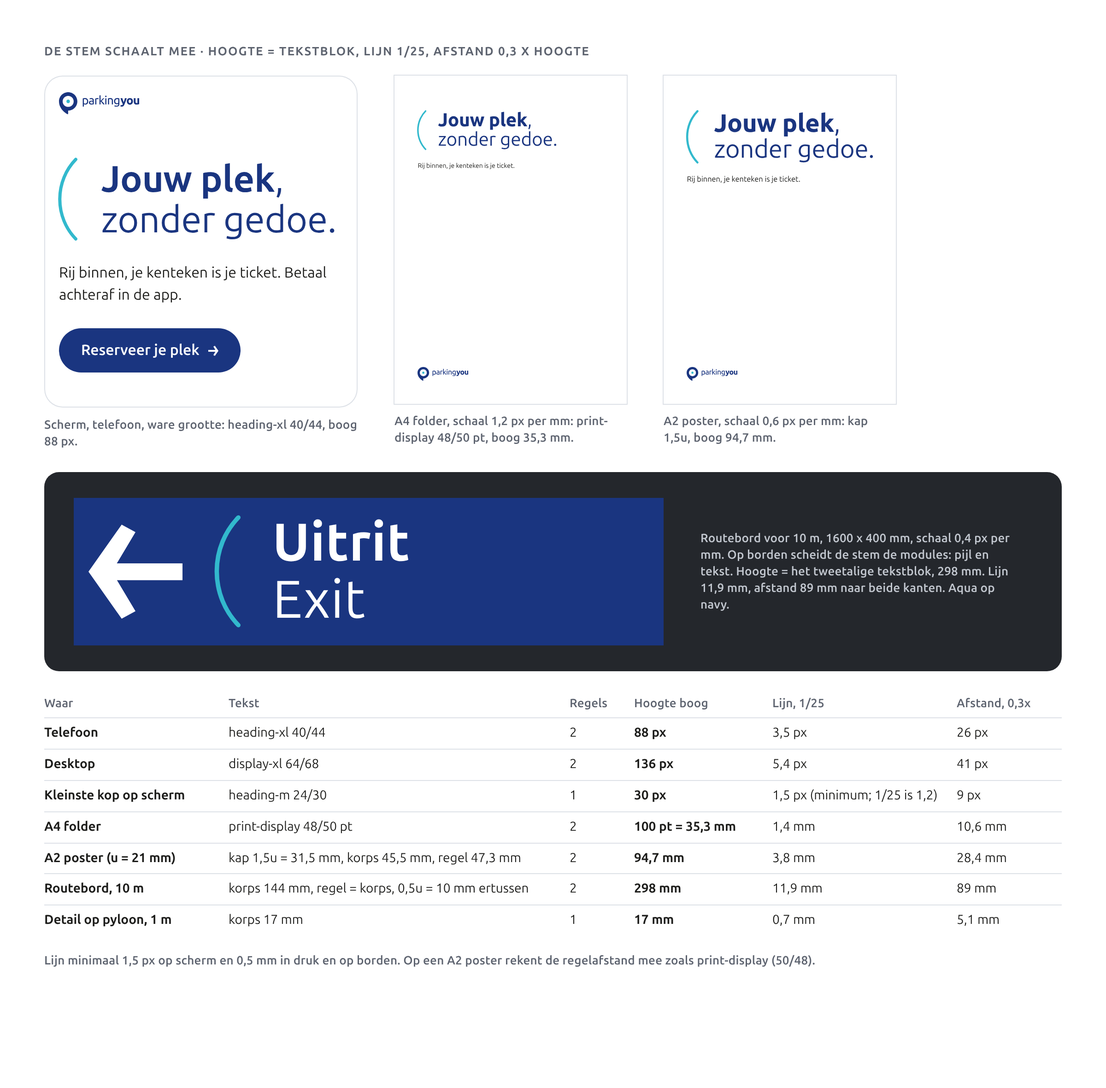
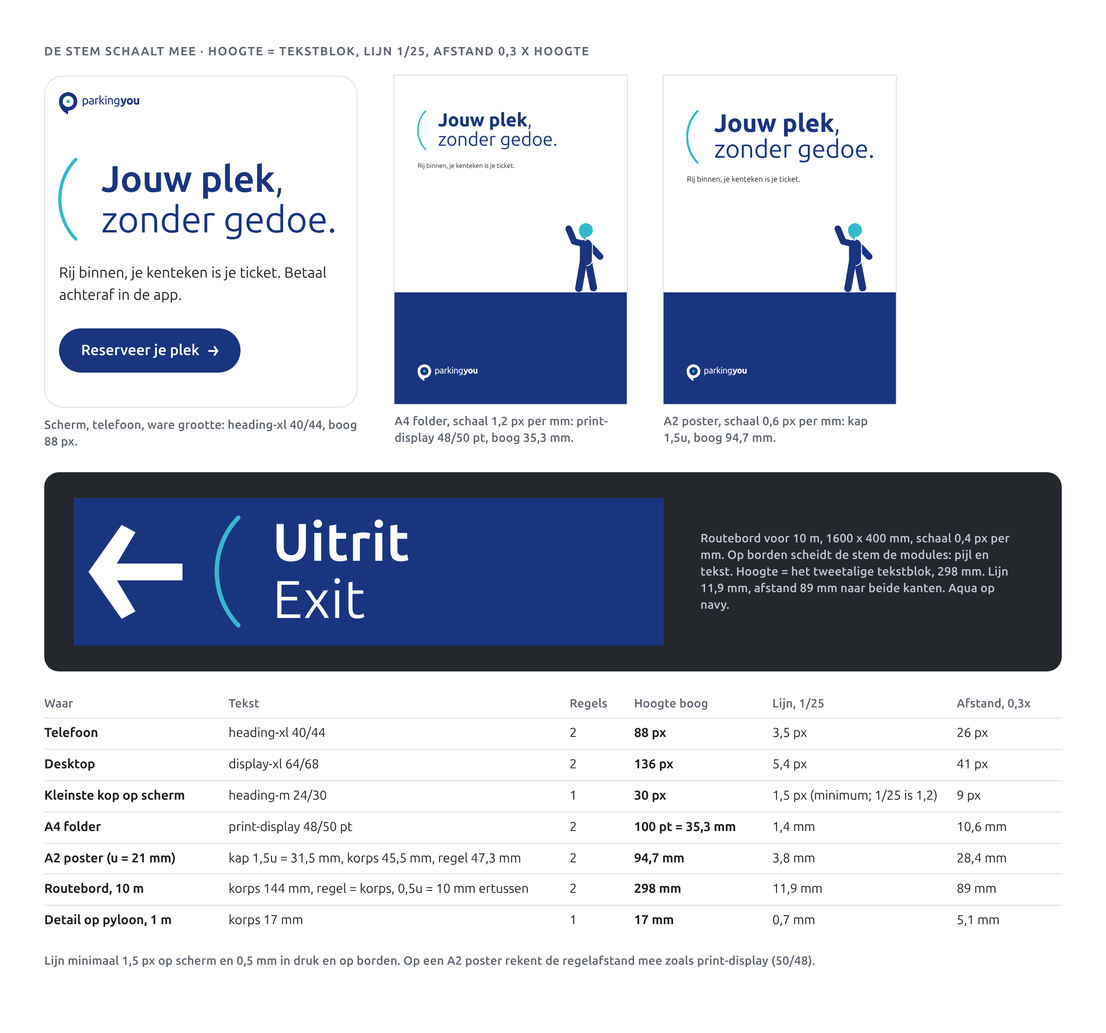
Brand refresh 2027 v2 (work in progress): rework in progress
Claude-Session: https://claude.ai/code/session_01A5zCZPhhdyTXntSMSAxsZz

diff --git a/brand-2027/02-build/07-beweging/figures/reduced-motion.html b/brand-2027/02-build/07-beweging/figures/reduced-motion.html
@@ -14,8 +14,8 @@ code { font: 600 12px/18px ui-monospace, Menlo, monospace; }
 </style>
 </head>
 <body>
-<div class="fig " style="width: 1200px; height: 710px;">
-<div class="abs eyebrow" style="left:48px;top:44px">Reduced motion · zelfde moment, geen beweging</div><div class="abs h" style="left:48px;top:84px">Standaard: pop, 600 ms</div><div class="abs h" style="left:660px;top:84px">prefers-reduced-motion: fade, duration.reduced 120 ms</div><div class="abs" style="left:48px;top:120px;width:120px;height:170px;background:#F4F6FB;border-radius:8px"></div><svg class="abs" viewBox="0 0 36 43.423" width="72.00" height="86.85" style="left:72.00px;top:160.00px;overflow:visible;opacity:0.000;" aria-hidden="true"><path d="M18 0C8.059 0 0 8.058 0 17.999C0 34.701 16.691 43.074 16.691 43.074C17.264 43.423 18 43.006 18 42.335L18 35.997C27.941 35.997 36 27.939 36 17.999C36 8.058 27.941 0 18 0Z" fill="#1A3580"/></svg><div class="abs tnum" style="left:72.00px;top:160.00px;width:72.00px;height:72.00px;display:flex;align-items:center;justify-content:center;color:#FFFFFF;opacity:0.000;font-weight:800;font-size:28.8px;line-height:1">-1</div><div class="abs tnum" style="left:58px;top:128px;color:#5E6470;font:700 12px/1 var(--py-font-sans)">0 ms</div><div class="abs note tnum" style="left:48px;top:296px;font-size:11px">schaal 0,90</div><div class="abs" style="left:180px;top:120px;width:120px;height:170px;background:#F4F6FB;border-radius:8px"></div><svg class="abs" viewBox="0 0 36 43.423" width="77.65" height="93.66" style="left:201.17px;top:157.17px;overflow:visible;opacity:1.000;" aria-hidden="true"><path d="M18 0C8.059 0 0 8.058 0 17.999C0 34.701 16.691 43.074 16.691 43.074C17.264 43.423 18 43.006 18 42.335L18 35.997C27.941 35.997 36 27.939 36 17.999C36 8.058 27.941 0 18 0Z" fill="#1A3580"/></svg><div class="abs tnum" style="left:201.17px;top:157.17px;width:77.65px;height:77.65px;display:flex;align-items:center;justify-content:center;color:#FFFFFF;opacity:1.000;font-weight:800;font-size:31.1px;line-height:1">-1</div><div class="abs tnum" style="left:190px;top:128px;color:#5E6470;font:700 12px/1 var(--py-font-sans)">150 ms</div><div class="abs note tnum" style="left:180px;top:296px;font-size:11px">schaal 0,97</div><div class="abs" style="left:312px;top:120px;width:120px;height:170px;background:#F4F6FB;border-radius:8px"></div><svg class="abs" viewBox="0 0 36 43.423" width="79.93" height="96.41" style="left:332.03px;top:156.03px;overflow:visible;opacity:1.000;" aria-hidden="true"><path d="M18 0C8.059 0 0 8.058 0 17.999C0 34.701 16.691 43.074 16.691 43.074C17.264 43.423 18 43.006 18 42.335L18 35.997C27.941 35.997 36 27.939 36 17.999C36 8.058 27.941 0 18 0Z" fill="#1A3580"/></svg><div class="abs tnum" style="left:332.03px;top:156.03px;width:79.93px;height:79.93px;display:flex;align-items:center;justify-content:center;color:#FFFFFF;opacity:1.000;font-weight:800;font-size:32.0px;line-height:1">-1</div><div class="abs tnum" style="left:322px;top:128px;color:#5E6470;font:700 12px/1 var(--py-font-sans)">300 ms</div><div class="abs note tnum" style="left:312px;top:296px;font-size:11px">schaal 1,00</div><div class="abs" style="left:444px;top:120px;width:120px;height:170px;background:#F4F6FB;border-radius:8px"></div><svg class="abs" viewBox="0 0 36 43.423" width="80.00" height="96.50" style="left:464.00px;top:156.00px;overflow:visible;opacity:1.000;" aria-hidden="true"><path d="M18 0C8.059 0 0 8.058 0 17.999C0 34.701 16.691 43.074 16.691 43.074C17.264 43.423 18 43.006 18 42.335L18 35.997C27.941 35.997 36 27.939 36 17.999C36 8.058 27.941 0 18 0Z" fill="#1A3580"/></svg><div class="abs tnum" style="left:464.00px;top:156.00px;width:80.00px;height:80.00px;display:flex;align-items:center;justify-content:center;color:#FFFFFF;opacity:1.000;font-weight:800;font-size:32.0px;line-height:1">-1</div><div class="abs tnum" style="left:454px;top:128px;color:#5E6470;font:700 12px/1 var(--py-font-sans)">600 ms</div><div class="abs note tnum" style="left:444px;top:296px;font-size:11px">schaal 1,00</div><div class="abs" style="left:660px;top:120px;width:120px;height:170px;background:#F4F6FB;border-radius:8px"></div><svg class="abs" viewBox="0 0 36 43.423" width="80.00" height="96.50" style="left:680.00px;top:156.00px;overflow:visible;opacity:0.000;" aria-hidden="true"><path d="M18 0C8.059 0 0 8.058 0 17.999C0 34.701 16.691 43.074 16.691 43.074C17.264 43.423 18 43.006 18 42.335L18 35.997C27.941 35.997 36 27.939 36 17.999C36 8.058 27.941 0 18 0Z" fill="#1A3580"/></svg><div class="abs tnum" style="left:680.00px;top:156.00px;width:80.00px;height:80.00px;display:flex;align-items:center;justify-content:center;color:#FFFFFF;opacity:0.000;font-weight:800;font-size:32.0px;line-height:1">-1</div><div class="abs tnum" style="left:670px;top:128px;color:#5E6470;font:700 12px/1 var(--py-font-sans)">0 ms</div><div class="abs note tnum" style="left:660px;top:296px;font-size:11px">dekking 0,00</div><div class="abs" style="left:792px;top:120px;width:120px;height:170px;background:#F4F6FB;border-radius:8px"></div><svg class="abs" viewBox="0 0 36 43.423" width="80.00" height="96.50" style="left:812.00px;top:156.00px;overflow:visible;opacity:0.890;" aria-hidden="true"><path d="M18 0C8.059 0 0 8.058 0 17.999C0 34.701 16.691 43.074 16.691 43.074C17.264 43.423 18 43.006 18 42.335L18 35.997C27.941 35.997 36 27.939 36 17.999C36 8.058 27.941 0 18 0Z" fill="#1A3580"/></svg><div class="abs tnum" style="left:812.00px;top:156.00px;width:80.00px;height:80.00px;display:flex;align-items:center;justify-content:center;color:#FFFFFF;opacity:0.890;font-weight:800;font-size:32.0px;line-height:1">-1</div><div class="abs tnum" style="left:802px;top:128px;color:#5E6470;font:700 12px/1 var(--py-font-sans)">60 ms</div><div class="abs note tnum" style="left:792px;top:296px;font-size:11px">dekking 0,89</div><div class="abs" style="left:924px;top:120px;width:120px;height:170px;background:#F4F6FB;border-radius:8px"></div><svg class="abs" viewBox="0 0 36 43.423" width="80.00" height="96.50" style="left:944.00px;top:156.00px;overflow:visible;opacity:1.000;" aria-hidden="true"><path d="M18 0C8.059 0 0 8.058 0 17.999C0 34.701 16.691 43.074 16.691 43.074C17.264 43.423 18 43.006 18 42.335L18 35.997C27.941 35.997 36 27.939 36 17.999C36 8.058 27.941 0 18 0Z" fill="#1A3580"/></svg><div class="abs tnum" style="left:944.00px;top:156.00px;width:80.00px;height:80.00px;display:flex;align-items:center;justify-content:center;color:#FFFFFF;opacity:1.000;font-weight:800;font-size:32.0px;line-height:1">-1</div><div class="abs tnum" style="left:934px;top:128px;color:#5E6470;font:700 12px/1 var(--py-font-sans)">120 ms</div><div class="abs note tnum" style="left:924px;top:296px;font-size:11px">dekking 1,00</div><table class="abs" style="left:48px;top:340px;width:1104px;border-collapse:collapse;font:400 13.5px/18px var(--py-font-sans);color:#1D1D1B"><tr><td style="font:700 11.5px/14px var(--py-font-sans);letter-spacing:0.06em;text-transform:uppercase;color:#5E6470;border-bottom:2px solid #1A3580;padding:0 14px 8px 0;font-weight:700">Wat</td><td style="font:700 11.5px/14px var(--py-font-sans);letter-spacing:0.06em;text-transform:uppercase;color:#5E6470;border-bottom:2px solid #1A3580;padding:0 14px 8px 0">Standaard</td><td style="font:700 11.5px/14px var(--py-font-sans);letter-spacing:0.06em;text-transform:uppercase;color:#5E6470;border-bottom:2px solid #1A3580;padding:0 14px 8px 0">Reduced motion</td></tr><tr><td style="padding:7px 14px 7px 0;border-bottom:1px solid #DDE1E7;font-weight:700">Bubbelpop</td><td style="padding:7px 14px 7px 0;border-bottom:1px solid #DDE1E7">schaal 0,9 naar 1, 600 ms, easing.bubble</td><td style="padding:7px 14px 7px 0;border-bottom:1px solid #DDE1E7">dekking 0 naar 1 in duration.reduced</td></tr><tr><td style="padding:7px 14px 7px 0;border-bottom:1px solid #DDE1E7;font-weight:700">De stem</td><td style="padding:7px 14px 7px 0;border-bottom:1px solid #DDE1E7">tekent zich in 320 ms, dan de tekst</td><td style="padding:7px 14px 7px 0;border-bottom:1px solid #DDE1E7">boog en tekst samen, fade in duration.reduced</td></tr><tr><td style="padding:7px 14px 7px 0;border-bottom:1px solid #DDE1E7;font-weight:700">Parkeerder</td><td style="padding:7px 14px 7px 0;border-bottom:1px solid #DDE1E7">harde knip tussen twee figuren</td><td style="padding:7px 14px 7px 0;border-bottom:1px solid #DDE1E7">blijft een harde knip</td></tr><tr><td style="padding:7px 14px 7px 0;border-bottom:1px solid #DDE1E7;font-weight:700">De pijl</td><td style="padding:7px 14px 7px 0;border-bottom:1px solid #DDE1E7">schuift 4 px of 0,5u in 200 ms</td><td style="padding:7px 14px 7px 0;border-bottom:1px solid #DDE1E7">staat stil; komt hij in beeld, dan een fade</td></tr><tr><td style="padding:7px 14px 7px 0;border-bottom:1px solid #DDE1E7;font-weight:700">UI</td><td style="padding:7px 14px 7px 0;border-bottom:1px solid #DDE1E7">tokens fast tot slow</td><td style="padding:7px 14px 7px 0;border-bottom:1px solid #DDE1E7">moderate, slow, expressive 0 ms; fast blijft 120 ms</td></tr><tr><td style="padding:7px 14px 7px 0;border-bottom:1px solid #DDE1E7;font-weight:700">Video, carrousel</td><td style="padding:7px 14px 7px 0;border-bottom:1px solid #DDE1E7">mag vanzelf spelen, pauzeknop vanaf 5 s</td><td style="padding:7px 14px 7px 0;border-bottom:1px solid #DDE1E7">speelt niet vanzelf</td></tr></table><div class="abs" style="left:48px;top:640px;display:flex;align-items:center;gap:14px"><div style="display:flex;align-items:center;gap:10px;height:44px;padding:0 16px;border-radius:999px;background:#FFFFFF;box-shadow:inset 0 0 0 1px #1A3580;color:#1A3580;font:600 14px/1 var(--py-font-sans)"><svg viewBox="0 0 24 24" width="20" height="20" fill="none" stroke="#1A3580" stroke-width="2" stroke-linecap="round" stroke-linejoin="round" style="display:block;" aria-hidden="true"><path d="M6 6a1 1 0 0 1 1 -1h2a1 1 0 0 1 1 1v12a1 1 0 0 1 -1 1h-2a1 1 0 0 1 -1 -1l0 -12"/><path d="M14 6a1 1 0 0 1 1 -1h2a1 1 0 0 1 1 1v12a1 1 0 0 1 -1 1h-2a1 1 0 0 1 -1 -1l0 -12"/></svg>Pauzeer</div><div class="cap" style="width:820px">Video of carrousel die langer dan 5 s vanzelf speelt, krijgt een zichtbare pauzeknop van minstens 44 x 44 px. <code>tokens.css</code> houdt duration.fast en duration.reduced op 120 ms, zodat de fade gewoon uit de tokens komt.</div></div>
+<div class="fig " style="width: 1200px; height: 670px;">
+<div class="abs eyebrow" style="left:48px;top:44px">Reduced motion · zelfde moment, geen beweging</div><div class="abs h" style="left:48px;top:84px">Standaard: pop, 600 ms</div><div class="abs h" style="left:660px;top:84px">prefers-reduced-motion: fade, duration.reduced 120 ms</div><div class="abs" style="left:48px;top:120px;width:120px;height:170px;background:#F4F6FB;border-radius:8px"></div><svg class="abs" viewBox="0 0 36 43.423" width="72.00" height="86.85" style="left:72.00px;top:160.00px;overflow:visible;opacity:0.000;" aria-hidden="true"><path d="M18 0C8.059 0 0 8.058 0 17.999C0 34.701 16.691 43.074 16.691 43.074C17.264 43.423 18 43.006 18 42.335L18 35.997C27.941 35.997 36 27.939 36 17.999C36 8.058 27.941 0 18 0Z" fill="#1A3580"/></svg><div class="abs tnum" style="left:72.00px;top:160.00px;width:72.00px;height:72.00px;display:flex;align-items:center;justify-content:center;color:#FFFFFF;opacity:0.000;font-weight:800;font-size:28.8px;line-height:1">-1</div><div class="abs tnum" style="left:58px;top:128px;color:#5E6470;font:700 12px/1 var(--py-font-sans)">0 ms</div><div class="abs note tnum" style="left:48px;top:296px;font-size:11px">schaal 0,90</div><div class="abs" style="left:180px;top:120px;width:120px;height:170px;background:#F4F6FB;border-radius:8px"></div><svg class="abs" viewBox="0 0 36 43.423" width="77.65" height="93.66" style="left:201.17px;top:157.17px;overflow:visible;opacity:1.000;" aria-hidden="true"><path d="M18 0C8.059 0 0 8.058 0 17.999C0 34.701 16.691 43.074 16.691 43.074C17.264 43.423 18 43.006 18 42.335L18 35.997C27.941 35.997 36 27.939 36 17.999C36 8.058 27.941 0 18 0Z" fill="#1A3580"/></svg><div class="abs tnum" style="left:201.17px;top:157.17px;width:77.65px;height:77.65px;display:flex;align-items:center;justify-content:center;color:#FFFFFF;opacity:1.000;font-weight:800;font-size:31.1px;line-height:1">-1</div><div class="abs tnum" style="left:190px;top:128px;color:#5E6470;font:700 12px/1 var(--py-font-sans)">150 ms</div><div class="abs note tnum" style="left:180px;top:296px;font-size:11px">schaal 0,97</div><div class="abs" style="left:312px;top:120px;width:120px;height:170px;background:#F4F6FB;border-radius:8px"></div><svg class="abs" viewBox="0 0 36 43.423" width="79.93" height="96.41" style="left:332.03px;top:156.03px;overflow:visible;opacity:1.000;" aria-hidden="true"><path d="M18 0C8.059 0 0 8.058 0 17.999C0 34.701 16.691 43.074 16.691 43.074C17.264 43.423 18 43.006 18 42.335L18 35.997C27.941 35.997 36 27.939 36 17.999C36 8.058 27.941 0 18 0Z" fill="#1A3580"/></svg><div class="abs tnum" style="left:332.03px;top:156.03px;width:79.93px;height:79.93px;display:flex;align-items:center;justify-content:center;color:#FFFFFF;opacity:1.000;font-weight:800;font-size:32.0px;line-height:1">-1</div><div class="abs tnum" style="left:322px;top:128px;color:#5E6470;font:700 12px/1 var(--py-font-sans)">300 ms</div><div class="abs note tnum" style="left:312px;top:296px;font-size:11px">schaal 1,00</div><div class="abs" style="left:444px;top:120px;width:120px;height:170px;background:#F4F6FB;border-radius:8px"></div><svg class="abs" viewBox="0 0 36 43.423" width="80.00" height="96.50" style="left:464.00px;top:156.00px;overflow:visible;opacity:1.000;" aria-hidden="true"><path d="M18 0C8.059 0 0 8.058 0 17.999C0 34.701 16.691 43.074 16.691 43.074C17.264 43.423 18 43.006 18 42.335L18 35.997C27.941 35.997 36 27.939 36 17.999C36 8.058 27.941 0 18 0Z" fill="#1A3580"/></svg><div class="abs tnum" style="left:464.00px;top:156.00px;width:80.00px;height:80.00px;display:flex;align-items:center;justify-content:center;color:#FFFFFF;opacity:1.000;font-weight:800;font-size:32.0px;line-height:1">-1</div><div class="abs tnum" style="left:454px;top:128px;color:#5E6470;font:700 12px/1 var(--py-font-sans)">600 ms</div><div class="abs note tnum" style="left:444px;top:296px;font-size:11px">schaal 1,00</div><div class="abs" style="left:660px;top:120px;width:120px;height:170px;background:#F4F6FB;border-radius:8px"></div><svg class="abs" viewBox="0 0 36 43.423" width="80.00" height="96.50" style="left:680.00px;top:156.00px;overflow:visible;opacity:0.000;" aria-hidden="true"><path d="M18 0C8.059 0 0 8.058 0 17.999C0 34.701 16.691 43.074 16.691 43.074C17.264 43.423 18 43.006 18 42.335L18 35.997C27.941 35.997 36 27.939 36 17.999C36 8.058 27.941 0 18 0Z" fill="#1A3580"/></svg><div class="abs tnum" style="left:680.00px;top:156.00px;width:80.00px;height:80.00px;display:flex;align-items:center;justify-content:center;color:#FFFFFF;opacity:0.000;font-weight:800;font-size:32.0px;line-height:1">-1</div><div class="abs tnum" style="left:670px;top:128px;color:#5E6470;font:700 12px/1 var(--py-font-sans)">0 ms</div><div class="abs note tnum" style="left:660px;top:296px;font-size:11px">dekking 0,00</div><div class="abs" style="left:792px;top:120px;width:120px;height:170px;background:#F4F6FB;border-radius:8px"></div><svg class="abs" viewBox="0 0 36 43.423" width="80.00" height="96.50" style="left:812.00px;top:156.00px;overflow:visible;opacity:0.890;" aria-hidden="true"><path d="M18 0C8.059 0 0 8.058 0 17.999C0 34.701 16.691 43.074 16.691 43.074C17.264 43.423 18 43.006 18 42.335L18 35.997C27.941 35.997 36 27.939 36 17.999C36 8.058 27.941 0 18 0Z" fill="#1A3580"/></svg><div class="abs tnum" style="left:812.00px;top:156.00px;width:80.00px;height:80.00px;display:flex;align-items:center;justify-content:center;color:#FFFFFF;opacity:0.890;font-weight:800;font-size:32.0px;line-height:1">-1</div><div class="abs tnum" style="left:802px;top:128px;color:#5E6470;font:700 12px/1 var(--py-font-sans)">60 ms</div><div class="abs note tnum" style="left:792px;top:296px;font-size:11px">dekking 0,89</div><div class="abs" style="left:924px;top:120px;width:120px;height:170px;background:#F4F6FB;border-radius:8px"></div><svg class="abs" viewBox="0 0 36 43.423" width="80.00" height="96.50" style="left:944.00px;top:156.00px;overflow:visible;opacity:1.000;" aria-hidden="true"><path d="M18 0C8.059 0 0 8.058 0 17.999C0 34.701 16.691 43.074 16.691 43.074C17.264 43.423 18 43.006 18 42.335L18 35.997C27.941 35.997 36 27.939 36 17.999C36 8.058 27.941 0 18 0Z" fill="#1A3580"/></svg><div class="abs tnum" style="left:944.00px;top:156.00px;width:80.00px;height:80.00px;display:flex;align-items:center;justify-content:center;color:#FFFFFF;opacity:1.000;font-weight:800;font-size:32.0px;line-height:1">-1</div><div class="abs tnum" style="left:934px;top:128px;color:#5E6470;font:700 12px/1 var(--py-font-sans)">120 ms</div><div class="abs note tnum" style="left:924px;top:296px;font-size:11px">dekking 1,00</div><table class="abs" style="left:48px;top:340px;width:1104px;border-collapse:collapse;font:400 13.5px/18px var(--py-font-sans);color:#1D1D1B"><tr><td style="font:700 11.5px/14px var(--py-font-sans);letter-spacing:0.06em;text-transform:uppercase;color:#5E6470;border-bottom:2px solid #1A3580;padding:0 14px 8px 0;font-weight:700">Wat</td><td style="font:700 11.5px/14px var(--py-font-sans);letter-spacing:0.06em;text-transform:uppercase;color:#5E6470;border-bottom:2px solid #1A3580;padding:0 14px 8px 0">Standaard</td><td style="font:700 11.5px/14px var(--py-font-sans);letter-spacing:0.06em;text-transform:uppercase;color:#5E6470;border-bottom:2px solid #1A3580;padding:0 14px 8px 0">Reduced motion</td></tr><tr><td style="padding:7px 14px 7px 0;border-bottom:1px solid #DDE1E7;font-weight:700">Bubbelpop</td><td style="padding:7px 14px 7px 0;border-bottom:1px solid #DDE1E7">schaal 0,9 naar 1, 600 ms, easing.bubble</td><td style="padding:7px 14px 7px 0;border-bottom:1px solid #DDE1E7">dekking 0 naar 1 in duration.reduced</td></tr><tr><td style="padding:7px 14px 7px 0;border-bottom:1px solid #DDE1E7;font-weight:700">De stem</td><td style="padding:7px 14px 7px 0;border-bottom:1px solid #DDE1E7">tekent zich in 320 ms, dan de tekst</td><td style="padding:7px 14px 7px 0;border-bottom:1px solid #DDE1E7">boog en tekst samen, fade in duration.reduced</td></tr><tr><td style="padding:7px 14px 7px 0;border-bottom:1px solid #DDE1E7;font-weight:700">Parkeerder</td><td style="padding:7px 14px 7px 0;border-bottom:1px solid #DDE1E7">harde knip tussen twee figuren</td><td style="padding:7px 14px 7px 0;border-bottom:1px solid #DDE1E7">blijft een harde knip</td></tr><tr><td style="padding:7px 14px 7px 0;border-bottom:1px solid #DDE1E7;font-weight:700">De pijl</td><td style="padding:7px 14px 7px 0;border-bottom:1px solid #DDE1E7">schuift 4 px of 0,5u in 200 ms</td><td style="padding:7px 14px 7px 0;border-bottom:1px solid #DDE1E7">staat stil; komt hij in beeld, dan een fade</td></tr><tr><td style="padding:7px 14px 7px 0;border-bottom:1px solid #DDE1E7;font-weight:700">UI</td><td style="padding:7px 14px 7px 0;border-bottom:1px solid #DDE1E7">tokens fast tot slow</td><td style="padding:7px 14px 7px 0;border-bottom:1px solid #DDE1E7">moderate, slow, expressive 0 ms; fast blijft 120 ms</td></tr><tr><td style="padding:7px 14px 7px 0;border-bottom:1px solid #DDE1E7;font-weight:700">Video, carrousel</td><td style="padding:7px 14px 7px 0;border-bottom:1px solid #DDE1E7">mag vanzelf spelen, pauzeknop vanaf 5 s</td><td style="padding:7px 14px 7px 0;border-bottom:1px solid #DDE1E7">speelt niet vanzelf</td></tr></table><div class="abs" style="left:48px;top:600px;display:flex;align-items:center;gap:14px"><div style="display:flex;align-items:center;gap:10px;height:44px;padding:0 16px;border-radius:999px;background:#FFFFFF;box-shadow:inset 0 0 0 1px #1A3580;color:#1A3580;font:600 14px/1 var(--py-font-sans)"><svg viewBox="0 0 24 24" width="20" height="20" fill="none" stroke="#1A3580" stroke-width="2" stroke-linecap="round" stroke-linejoin="round" style="display:block;" aria-hidden="true"><path d="M6 6a1 1 0 0 1 1 -1h2a1 1 0 0 1 1 1v12a1 1 0 0 1 -1 1h-2a1 1 0 0 1 -1 -1l0 -12"/><path d="M14 6a1 1 0 0 1 1 -1h2a1 1 0 0 1 1 1v12a1 1 0 0 1 -1 1h-2a1 1 0 0 1 -1 -1l0 -12"/></svg>Pauzeer</div><div class="cap" style="width:820px">Video of carrousel die langer dan 5 s vanzelf speelt, krijgt een zichtbare pauzeknop van minstens 44 x 44 px. <code>tokens.css</code> houdt duration.fast en duration.reduced op 120 ms, zodat de fade gewoon uit de tokens komt.</div></div>
 </div>
 </body>
 </html>

diff --git a/brand-2027/02-build/03-typografie/figures/stem-sizes.html b/brand-2027/02-build/03-typografie/figures/stem-sizes.html
@@ -10,7 +10,7 @@
 </style>
 </head>
 <body>
-<div class="fig" style="width:1200px;height:1180px;padding:48px;display:flex;flex-direction:column;gap:18px">
+<div class="fig" style="width:1200px;height:1120px;padding:48px;display:flex;flex-direction:column;gap:18px">
 <div class="eyebrow">De stem schaalt mee · hoogte = tekstblok, lijn 1/25, afstand 0,3 x hoogte</div>
 <div style="display:flex;gap:40px;align-items:flex-start">
   <div style="display:flex;flex-direction:column;gap:10px"><div style="position:relative;width:340px;height:360px;background:#FFFFFF;border-radius:20px;box-shadow:inset 0 0 0 1px #DDE1E7;overflow:hidden">
@@ -22,12 +22,16 @@
   <div style="display:flex;flex-direction:column;gap:10px"><div style="position:relative;width:252px;height:356px;background:#FFFFFF;box-shadow:0 0 0 1px #DDE1E7;overflow:hidden">
   <div style="position:absolute;left:25.2px;top:37.8px"><div style="display:flex;align-items:flex-start"><svg viewBox="0 0 10 45.44" width="9.32" height="42.34" aria-hidden="true" style="display:block;flex:none;overflow:visible"><path d="M9.393 0.453C6.631 3.303 4.396 6.696 2.852 10.463C1.307 14.231 0.453 18.373 0.453 22.721C0.453 27.069 1.307 31.211 2.852 34.978C4.396 38.746 6.631 42.139 9.393 44.988" fill="none" stroke="#32B9CD" stroke-width="1.69" stroke-linecap="round" vector-effect="non-scaling-stroke"/></svg><div style="margin-left:12.70px"><div style="font:400 20.32px/21.17px var(--py-font-sans);color:#1A3580;letter-spacing:-0.005em"><div style="height:21.17px;white-space:nowrap"><b style="font-weight:800">Jouw plek</b>,</div><div style="height:21.17px;white-space:nowrap">zonder gedoe.</div></div></div></div></div>
   <div style="position:absolute;left:25.2px;top:92.7px;width:151px;font:400 7.0px/1.4 var(--py-font-sans);color:#1D1D1B">Rij binnen, je kenteken is je ticket.</div>
-  <div style="position:absolute;left:25.2px;bottom:25.2px"><img src="../../kit/assets/logo-horizontal-color.svg" alt="" style="height:15px;display:block;"></div>
+  <div style="position:absolute;left:0;right:0;top:235.2px;bottom:0;background:#1A3580"></div>
+  <div style="position:absolute;left:184.7px;top:159.6px"><img src="../../kit/assets/figure-wave-duo.svg" alt="" style="height:75.6px;display:block;flex:none;"></div>
+  <div style="position:absolute;left:25.2px;bottom:25.2px"><img src="../../kit/assets/logo-horizontal-reverse.svg" alt="" style="height:18px;display:block;"></div>
 </div><div class="note" style="width:252px">A4 folder, schaal 1,2 px per mm: print-display 48/50 pt, boog 35,3 mm.</div></div>
   <div style="display:flex;flex-direction:column;gap:10px"><div style="position:relative;width:252px;height:356px;background:#FFFFFF;box-shadow:0 0 0 1px #DDE1E7;overflow:hidden">
   <div style="position:absolute;left:25.2px;top:37.8px"><div style="display:flex;align-items:flex-start"><svg viewBox="0 0 10 45.44" width="12.50" height="56.82" aria-hidden="true" style="display:block;flex:none;overflow:visible"><path d="M9.393 0.453C6.631 3.303 4.396 6.696 2.852 10.463C1.307 14.231 0.453 18.373 0.453 22.721C0.453 27.069 1.307 31.211 2.852 34.978C4.396 38.746 6.631 42.139 9.393 44.988" fill="none" stroke="#32B9CD" stroke-width="2.27" stroke-linecap="round" vector-effect="non-scaling-stroke"/></svg><div style="margin-left:17.05px"><div style="font:400 27.27px/28.41px var(--py-font-sans);color:#1A3580;letter-spacing:-0.005em"><div style="height:28.41px;white-space:nowrap"><b style="font-weight:800">Jouw plek</b>,</div><div style="height:28.41px;white-space:nowrap">zonder gedoe.</div></div></div></div></div>
   <div style="position:absolute;left:25.2px;top:107.2px;width:151px;font:400 8.2px/1.4 var(--py-font-sans);color:#1D1D1B">Rij binnen, je kenteken is je ticket.</div>
-  <div style="position:absolute;left:25.2px;bottom:25.2px"><img src="../../kit/assets/logo-horizontal-color.svg" alt="" style="height:15px;display:block;"></div>
+  <div style="position:absolute;left:0;right:0;top:235.2px;bottom:0;background:#1A3580"></div>
+  <div style="position:absolute;left:184.7px;top:159.6px"><img src="../../kit/assets/figure-wave-duo.svg" alt="" style="height:75.6px;display:block;flex:none;"></div>
+  <div style="position:absolute;left:25.2px;bottom:25.2px"><img src="../../kit/assets/logo-horizontal-reverse.svg" alt="" style="height:18px;display:block;"></div>
 </div><div class="note" style="width:252px">A2 poster, schaal 0,6 px per mm: kap 1,5u, boog 94,7 mm.</div></div>
 </div>
 <div style="background:#24272C;border-radius:16px;padding:28px 32px;display:flex;gap:40px;align-items:center;margin-top:6px">

diff --git a/brand-2027/02-build/11-toepassingen/figures/py-social.js b/brand-2027/02-build/11-toepassingen/figures/py-social.js
@@ -10,17 +10,18 @@ const PYSOC = (() => {
 
   // Het vak on PY-Blauw: bays running in from the bottom edge (H) for len px; pitch 1.5u, line 0.05u; jouw vak at bay index k.
   function vak(H, len, k, figName, standY, o = {}) {
-    const pitch = 1.5 * u, lw = 0.05 * u, top = H - len;
-    let s = `<g stroke="${C.line}" stroke-width="${lw}">`;
+    const pitch = 1.5 * u, lw = 0.05 * u, top = H - len, light = !!o.light;
+    const lineC = light ? '#DDE1E7' : C.line, mineC = light ? '#E3F6F9' : C.mine, ink = light ? C.navy : C.white;
+    let s = `<g stroke="${lineC}" stroke-width="${lw}">`;
     for (let x = 27; x <= W; x += pitch) s += `<line x1="${x}" y1="${top}" x2="${x}" y2="${H}"/>`;
     s += `<line x1="0" y1="${top - 0.5 * u}" x2="${W}" y2="${top - 0.5 * u}" stroke-dasharray="${0.3 * u} ${0.25 * u}"/></g>`;
     const x0 = 27 + k * pitch;
-    s += `<rect x="${x0}" y="${top}" width="${pitch}" height="${len}" fill="${C.mine}"/>`;
+    s += `<rect x="${x0}" y="${top}" width="${pitch}" height="${len}" fill="${mineC}"/>`;
     s += `<g stroke="${C.aqua}" stroke-width="${2 * lw}"><line x1="${x0}" y1="${top}" x2="${x0}" y2="${H}"/><line x1="${x0 + pitch}" y1="${top}" x2="${x0 + pitch}" y2="${H}"/></g>`;
     if (figName) {
       const h = 2.2 * u, fw = PYS.figW(figName, h);
-      s += `<rect x="${x0 + 0.2 * u}" y="${standY}" width="${pitch - 0.4 * u}" height="${0.1 * u}" fill="${C.white}"/>`;
-      s += PYS.fig(figName, x0 + (pitch - fw) / 2, standY, h, C.white, o);
+      s += `<rect x="${x0 + 0.2 * u}" y="${standY}" width="${pitch - 0.4 * u}" height="${0.1 * u}" fill="${ink}"/>`;
+      s += PYS.fig(figName, x0 + (pitch - fw) / 2, standY, h, ink, { flip: o.flip });
     }
     return s;
   }
@@ -36,18 +37,20 @@ const PYSOC = (() => {
     const reel = fmt === 'reel', H = reel ? 1920 : 1350, dy = reel ? 162 : 0; // reel: key content starts at 5u (270) instead of 2u
     let s = `<rect width="${W}" height="${H}" fill="${C.navy}"/>`;
     if (type === 'aanbod') {
-      const d = o.data || {}, t = dy + 60;
-      s += logo(M, M + dy);
-      s += eyebrow(M, 351 + t, d.eyebrow || 'Parking Hofplein');
-      s += T(M, 486 + t, d.l1 || 'Jouw vak', 117, { w: 700 });
-      s += T(M, 608 + t, d.l2 || 'staat klaar.', 117);
-      s += T(M, 748 + t, d.price || '€ 7,50', 78, { w: 800 }) + T(M + (d.priceW || 231), 748 + t, d.unit || 'per dag', 31);
-      s += T(M, 806 + t, d.body || 'Midden in Rotterdam, de hele dag.', 31);
-      s += T(M, 892 + t, d.cta || 'Reserveer je plek op parkingyou.nl', 31, { w: 700 });
+      const d = o.data || {}, t = dy + 60, light = d.ground !== 'navy';
+      const ink = light ? C.navy : C.white, accent = light ? '#127C8C' : C.aqua;
+      if (light) s = `<rect width="${W}" height="${H}" fill="#FFFFFF"/>`;
+      s += light ? `<image href="../../kit/assets/logo-horizontal-color.svg" x="${M}" y="${M + dy}" height="54" width="195.6"/>` : logo(M, M + dy);
+      s += eyebrow(M, 351 + t, d.eyebrow || 'Parking Hofplein', accent);
+      s += T(M, 486 + t, d.l1 || 'Jouw vak', 117, { w: 700, c: ink });
+      s += T(M, 608 + t, d.l2 || 'staat klaar.', 117, { c: ink });
+      s += T(M, 748 + t, d.price || '€ 7,50', 78, { w: 800, c: ink }) + T(M + (d.priceW || 231), 748 + t, d.unit || 'per dag', 31, { c: ink });
+      s += T(M, 806 + t, d.body || 'Midden in Rotterdam, de hele dag.', 31, { c: light ? '#1D1D1B' : C.white });
+      s += T(M, 892 + t, d.cta || 'Reserveer je plek op parkingyou.nl', 31, { w: 700, c: ink });
       // jouw vak (k = 1) starts on the left margin, under the headline
       const k = d.k === undefined ? 1 : d.k;
-      if (reel) s += vak(H, 340 + 4 * u, k, d.fig || 'cap-wave', 1566, { flip: d.flip });
-      else s += vak(H, 4 * u, k, d.fig || 'cap-wave', 1296, { flip: d.flip });
+      if (reel) s += vak(H, 340 + 4 * u, k, d.fig || 'cap-wave', 1566, { flip: d.flip, light });
+      else s += vak(H, 4 * u, k, d.fig || 'cap-wave', 1296, { flip: d.flip, light });
     }
     if (type === 'locatie') {
       const ph = reel ? 918 : 648;
